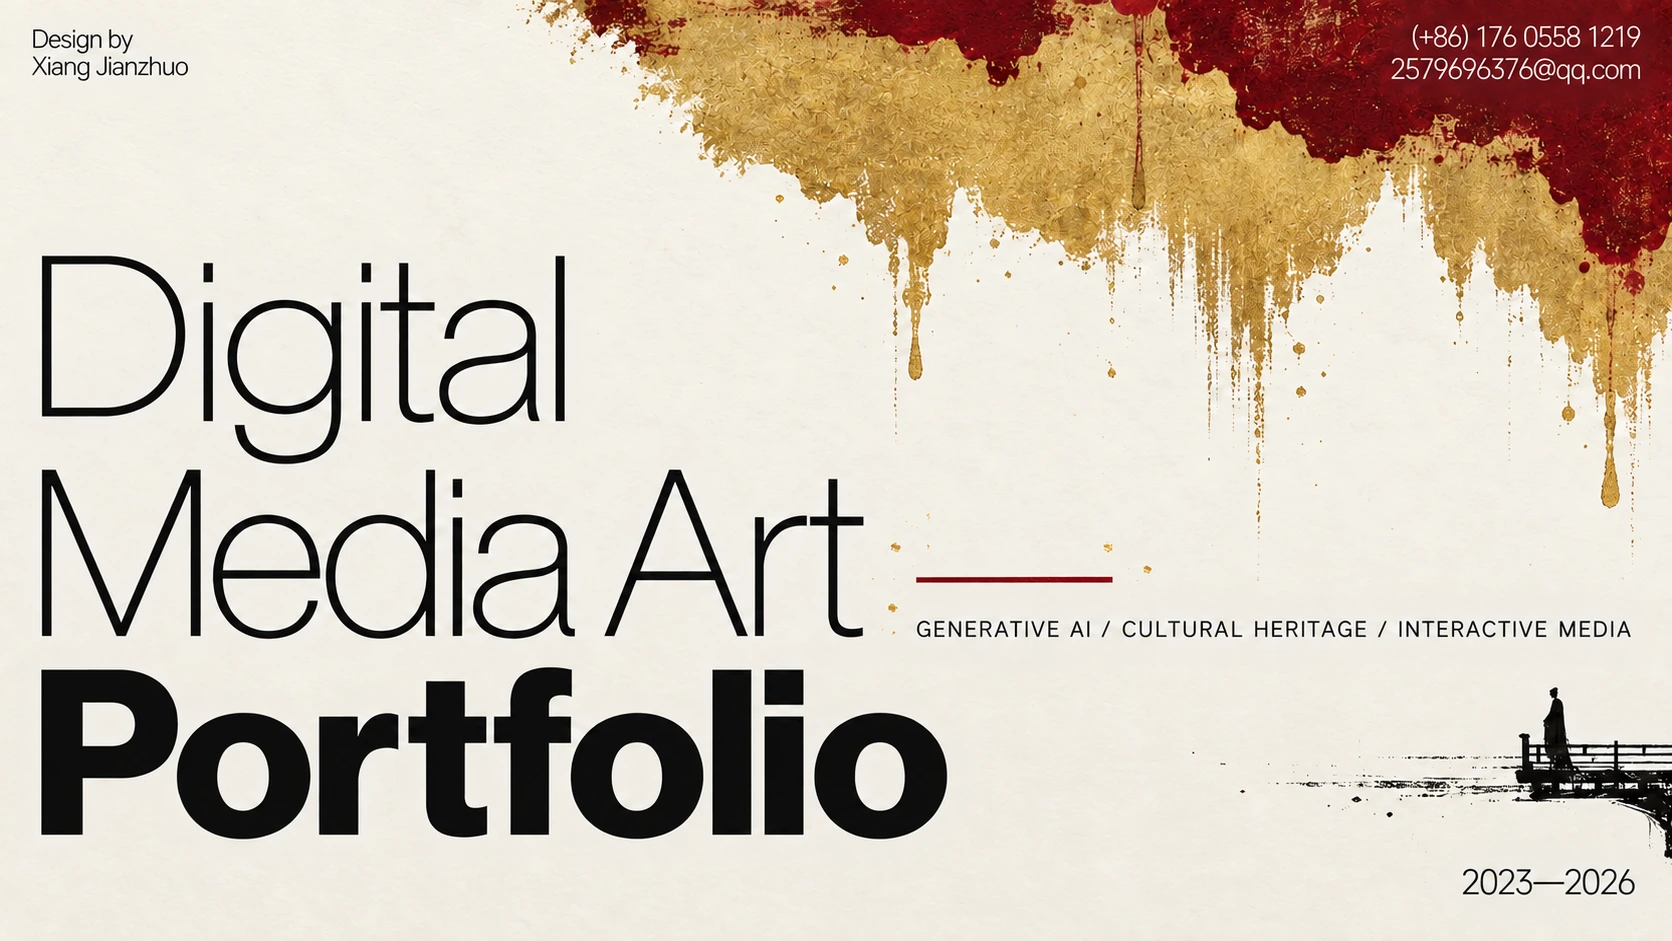
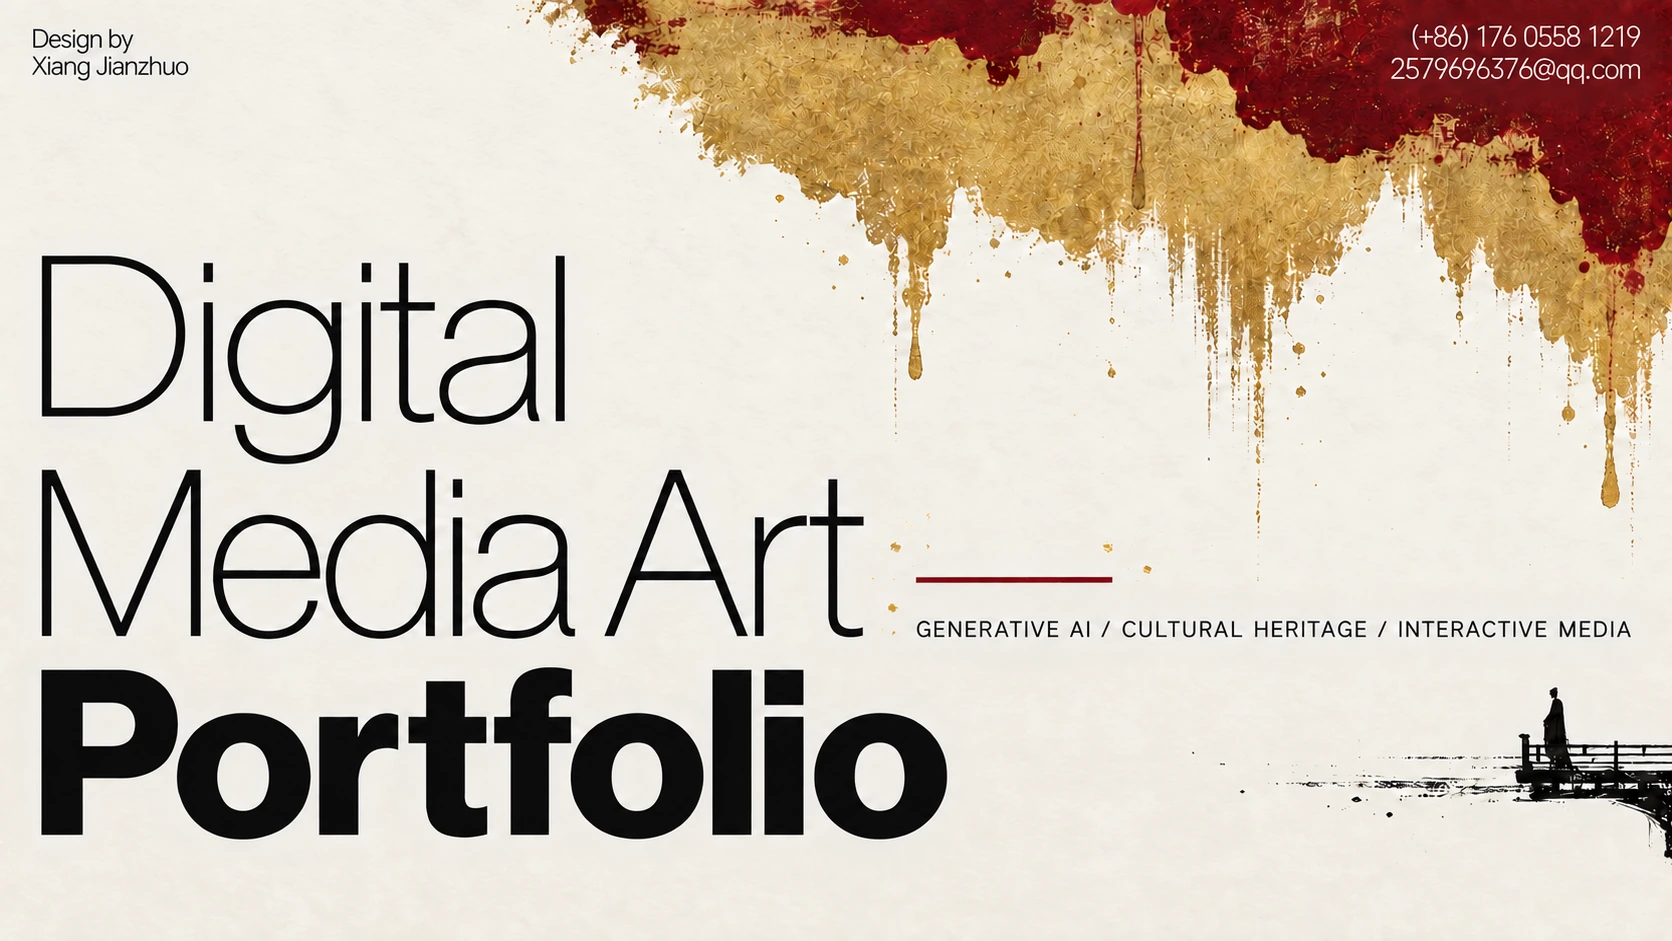
首页导航改纸色 + 画册两页换成用户最新版
导航（只动首页，其他页保持深色）：
- 加 .site-header.on-paper，底色取封面实测纸色 #f2efe7（与封面无缝相接）
- 顶部隐藏站点 logo——封面左上角已有「Design by Xiang Jianzhuo」，避免两个署名叠着；
  滚过 120px 后由 JS 淡入（main.js 新增 .scrolled 切换）

图片：
- cover-hero.webp 换成用户 22:07 重新生成的版本（设计未变、墨迹重滚）
- cover-about.webp 换成修订版：ABOUT → ABOUT ME、「我叫」→「我是」、简介措辞更新、
  关键词改为 GENERATIVE AI / 3D ART & GAME DESIGN
- 两页均为 1672×941 原尺寸，只转 WebP

diff --git a/assets/css/style.css b/assets/css/style.css
@@ -71,6 +71,21 @@ a { color: inherit; text-decoration: none; }
   padding: 6px 12px; cursor: pointer;
 }
 
+/* ---- 首页：导航与封面同色（封面纸底实测 #f2efe7，用同一个色才接得无缝） ---- */
+.site-header.on-paper {
+  background: #f2efe7; color: var(--ink); border-bottom: 0;
+}
+.site-header.on-paper.scrolled { border-bottom: 1px solid rgba(32,29,24,.08); }
+/* 顶部不显示站点 logo——封面左上角已有「Design by Xiang Jianzhuo」，避免两个署名叠在一起；
+   滚过封面后（.scrolled）再淡入 */
+.site-header.on-paper .logo { opacity: 0; pointer-events: none; transition: opacity .3s; }
+.site-header.on-paper.scrolled .logo { opacity: 1; pointer-events: auto; }
+.site-header.on-paper .nav a { color: #5a5349; }
+.site-header.on-paper .nav a:hover { background: var(--cinnabar); color: #fff; }
+.site-header.on-paper .nav .sep { color: rgba(90,83,73,.3); }
+.site-header.on-paper .menu-btn { color: var(--ink); border-color: rgba(32,29,24,.25); }
+.site-header.on-paper .nav.open { background: #f2efe7; }
+
 /* ============================================================
    Hero（首页）—— 2026-09-16
    直接使用用户设计的封面图（1672×941），不再用 HTML 重排版式

diff --git a/assets/js/main.js b/assets/js/main.js
@@ -52,6 +52,19 @@
     });
   }
 
+  /* ---------- 首页纸色导航：滚过封面后淡入站点 logo ---------- */
+  var paperHeader = document.querySelector(".site-header.on-paper");
+  if (paperHeader) {
+    var headScroll = function () {
+      var root = document.documentElement || document.body;
+      var y = window.pageYOffset !== undefined ? window.pageYOffset : (root.scrollTop || 0);
+      if (y > 120) { paperHeader.classList.add("scrolled"); }
+      else { paperHeader.classList.remove("scrolled"); }
+    };
+    window.addEventListener("scroll", headScroll, { passive: true });
+    headScroll();
+  }
+
   /* ---------- 滚动渐显 ---------- */
   var revealEls = document.querySelectorAll("[data-reveal]");
   if (revealEls.length && "IntersectionObserver" in window) {

diff --git a/index.html b/index.html
@@ -10,7 +10,7 @@
 </head>
 <body data-page="home">
 
-<header class="site-header">
+<header class="site-header on-paper">
   <div class="container">
     <a class="logo" href="index.html">项建卓<small>XIANG JIANZHUO</small></a>
     <nav class="nav">
